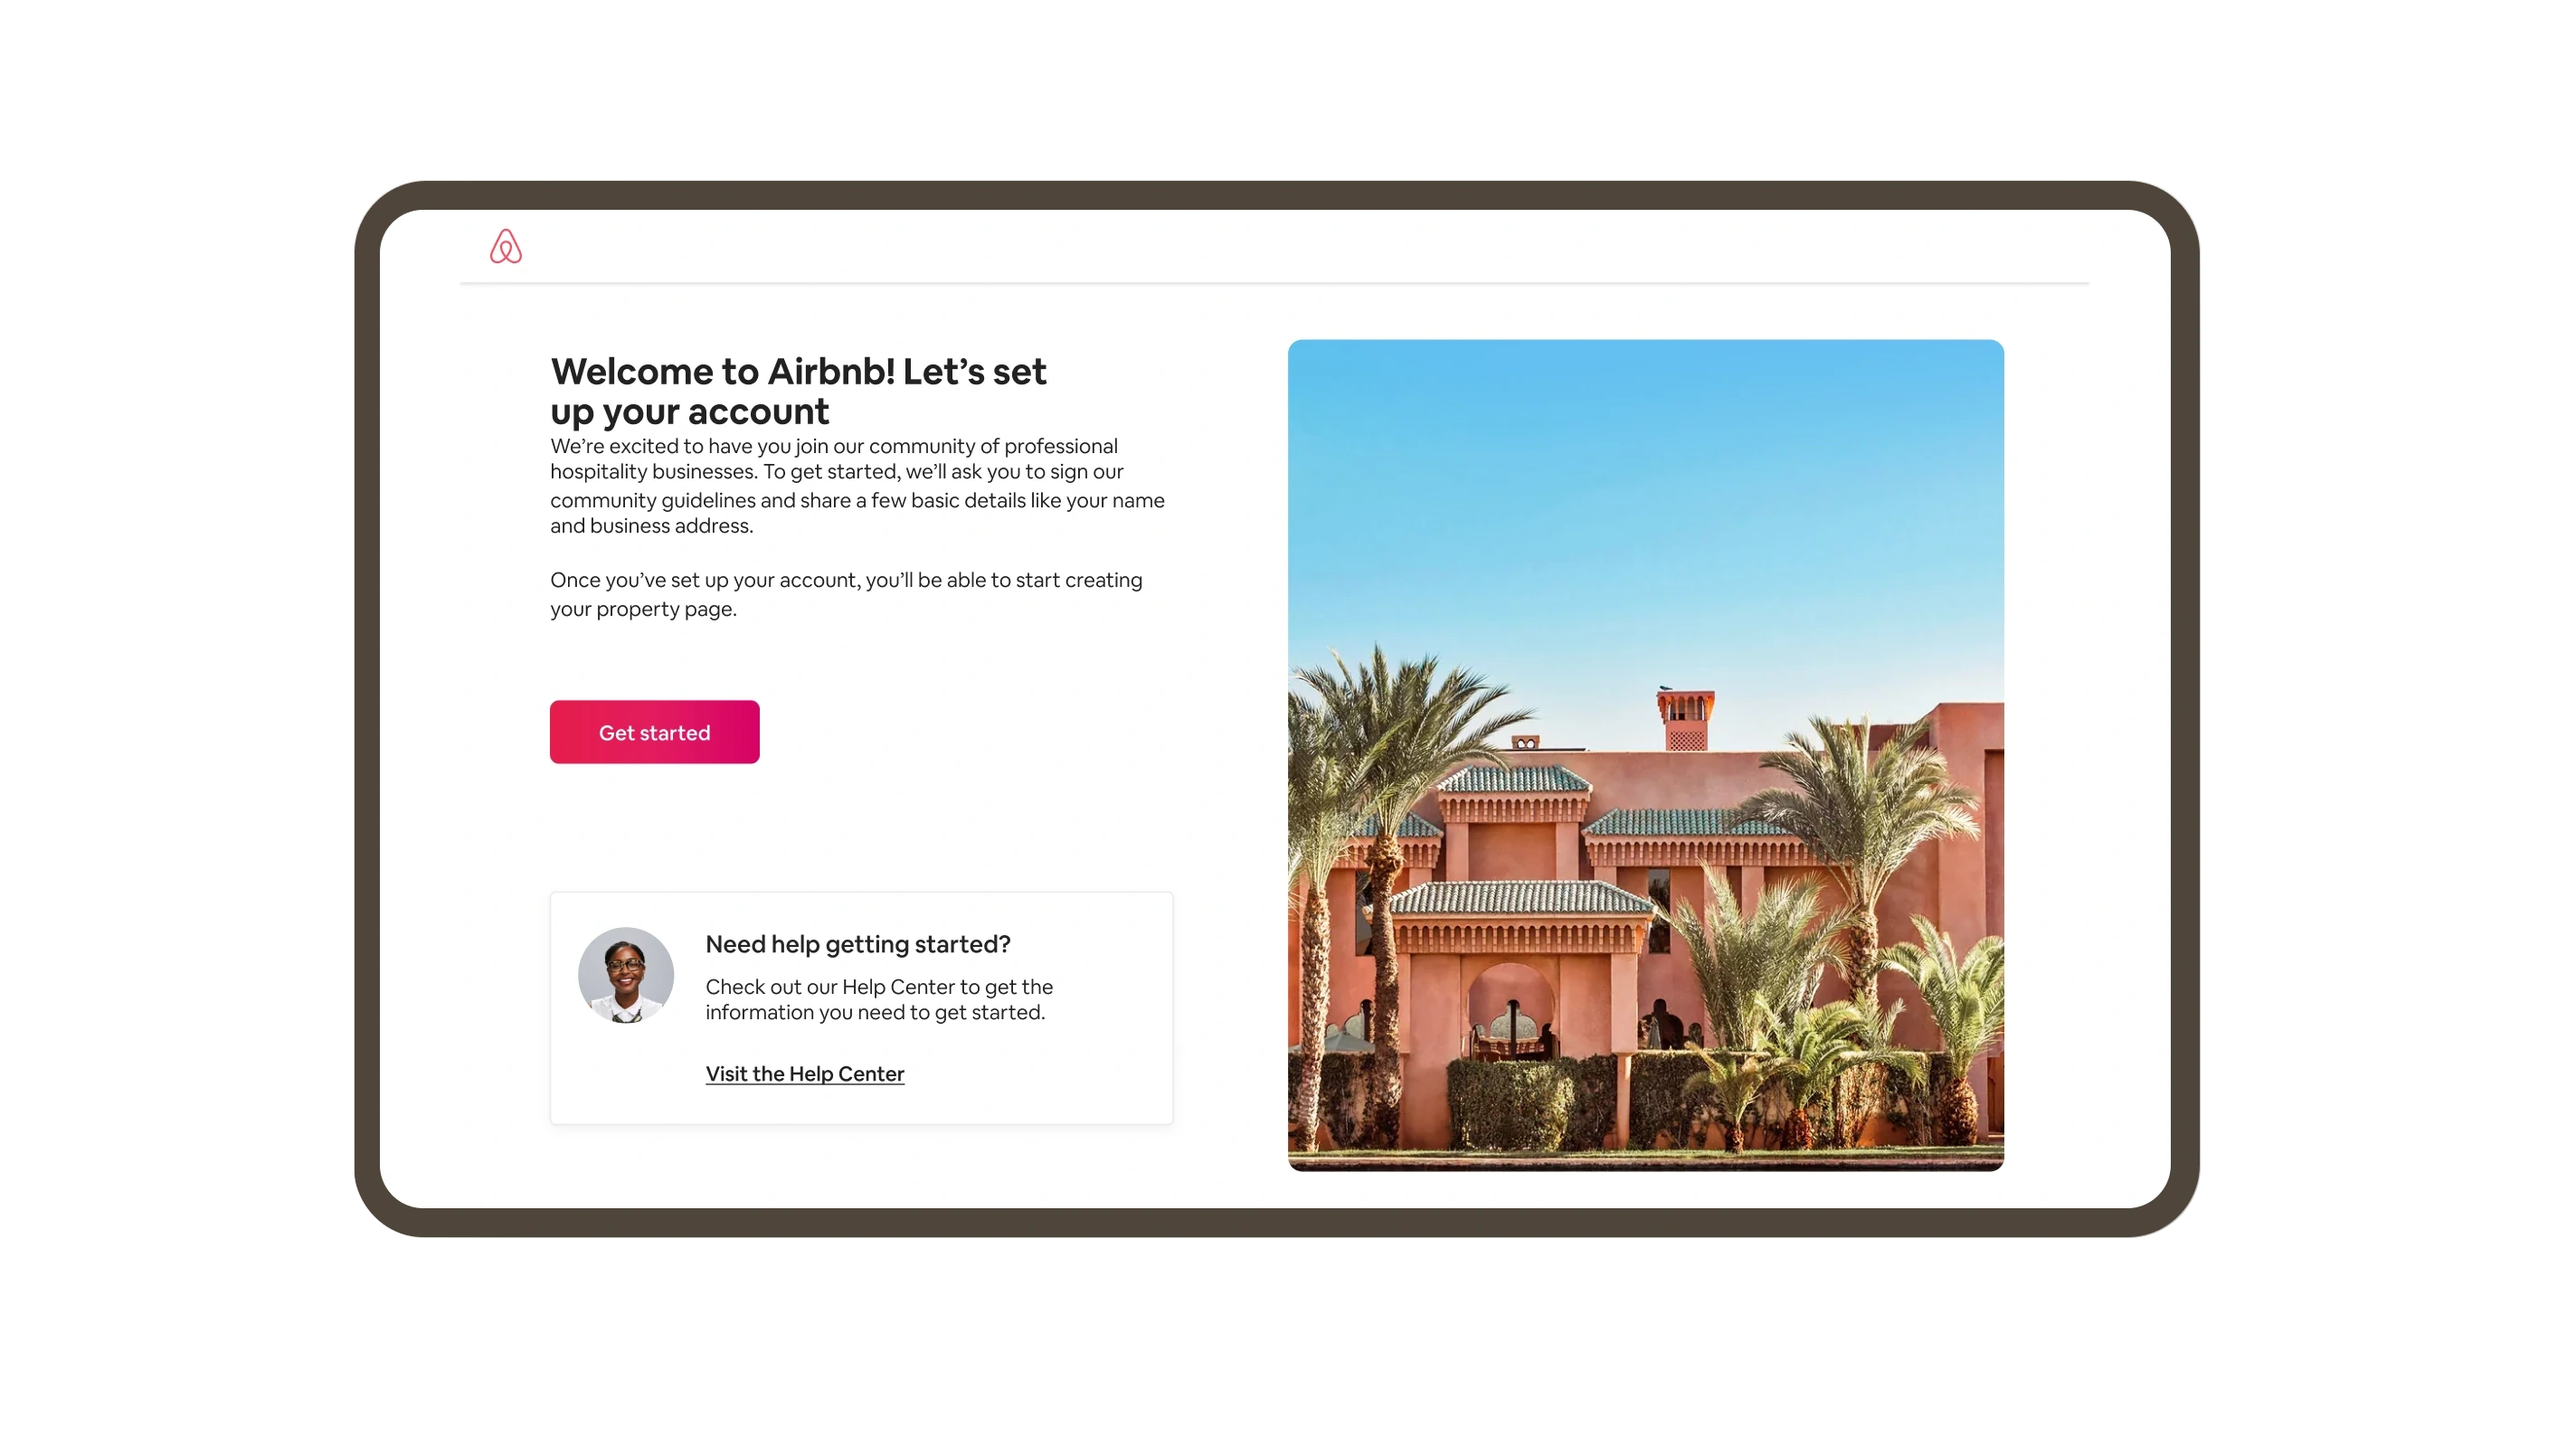
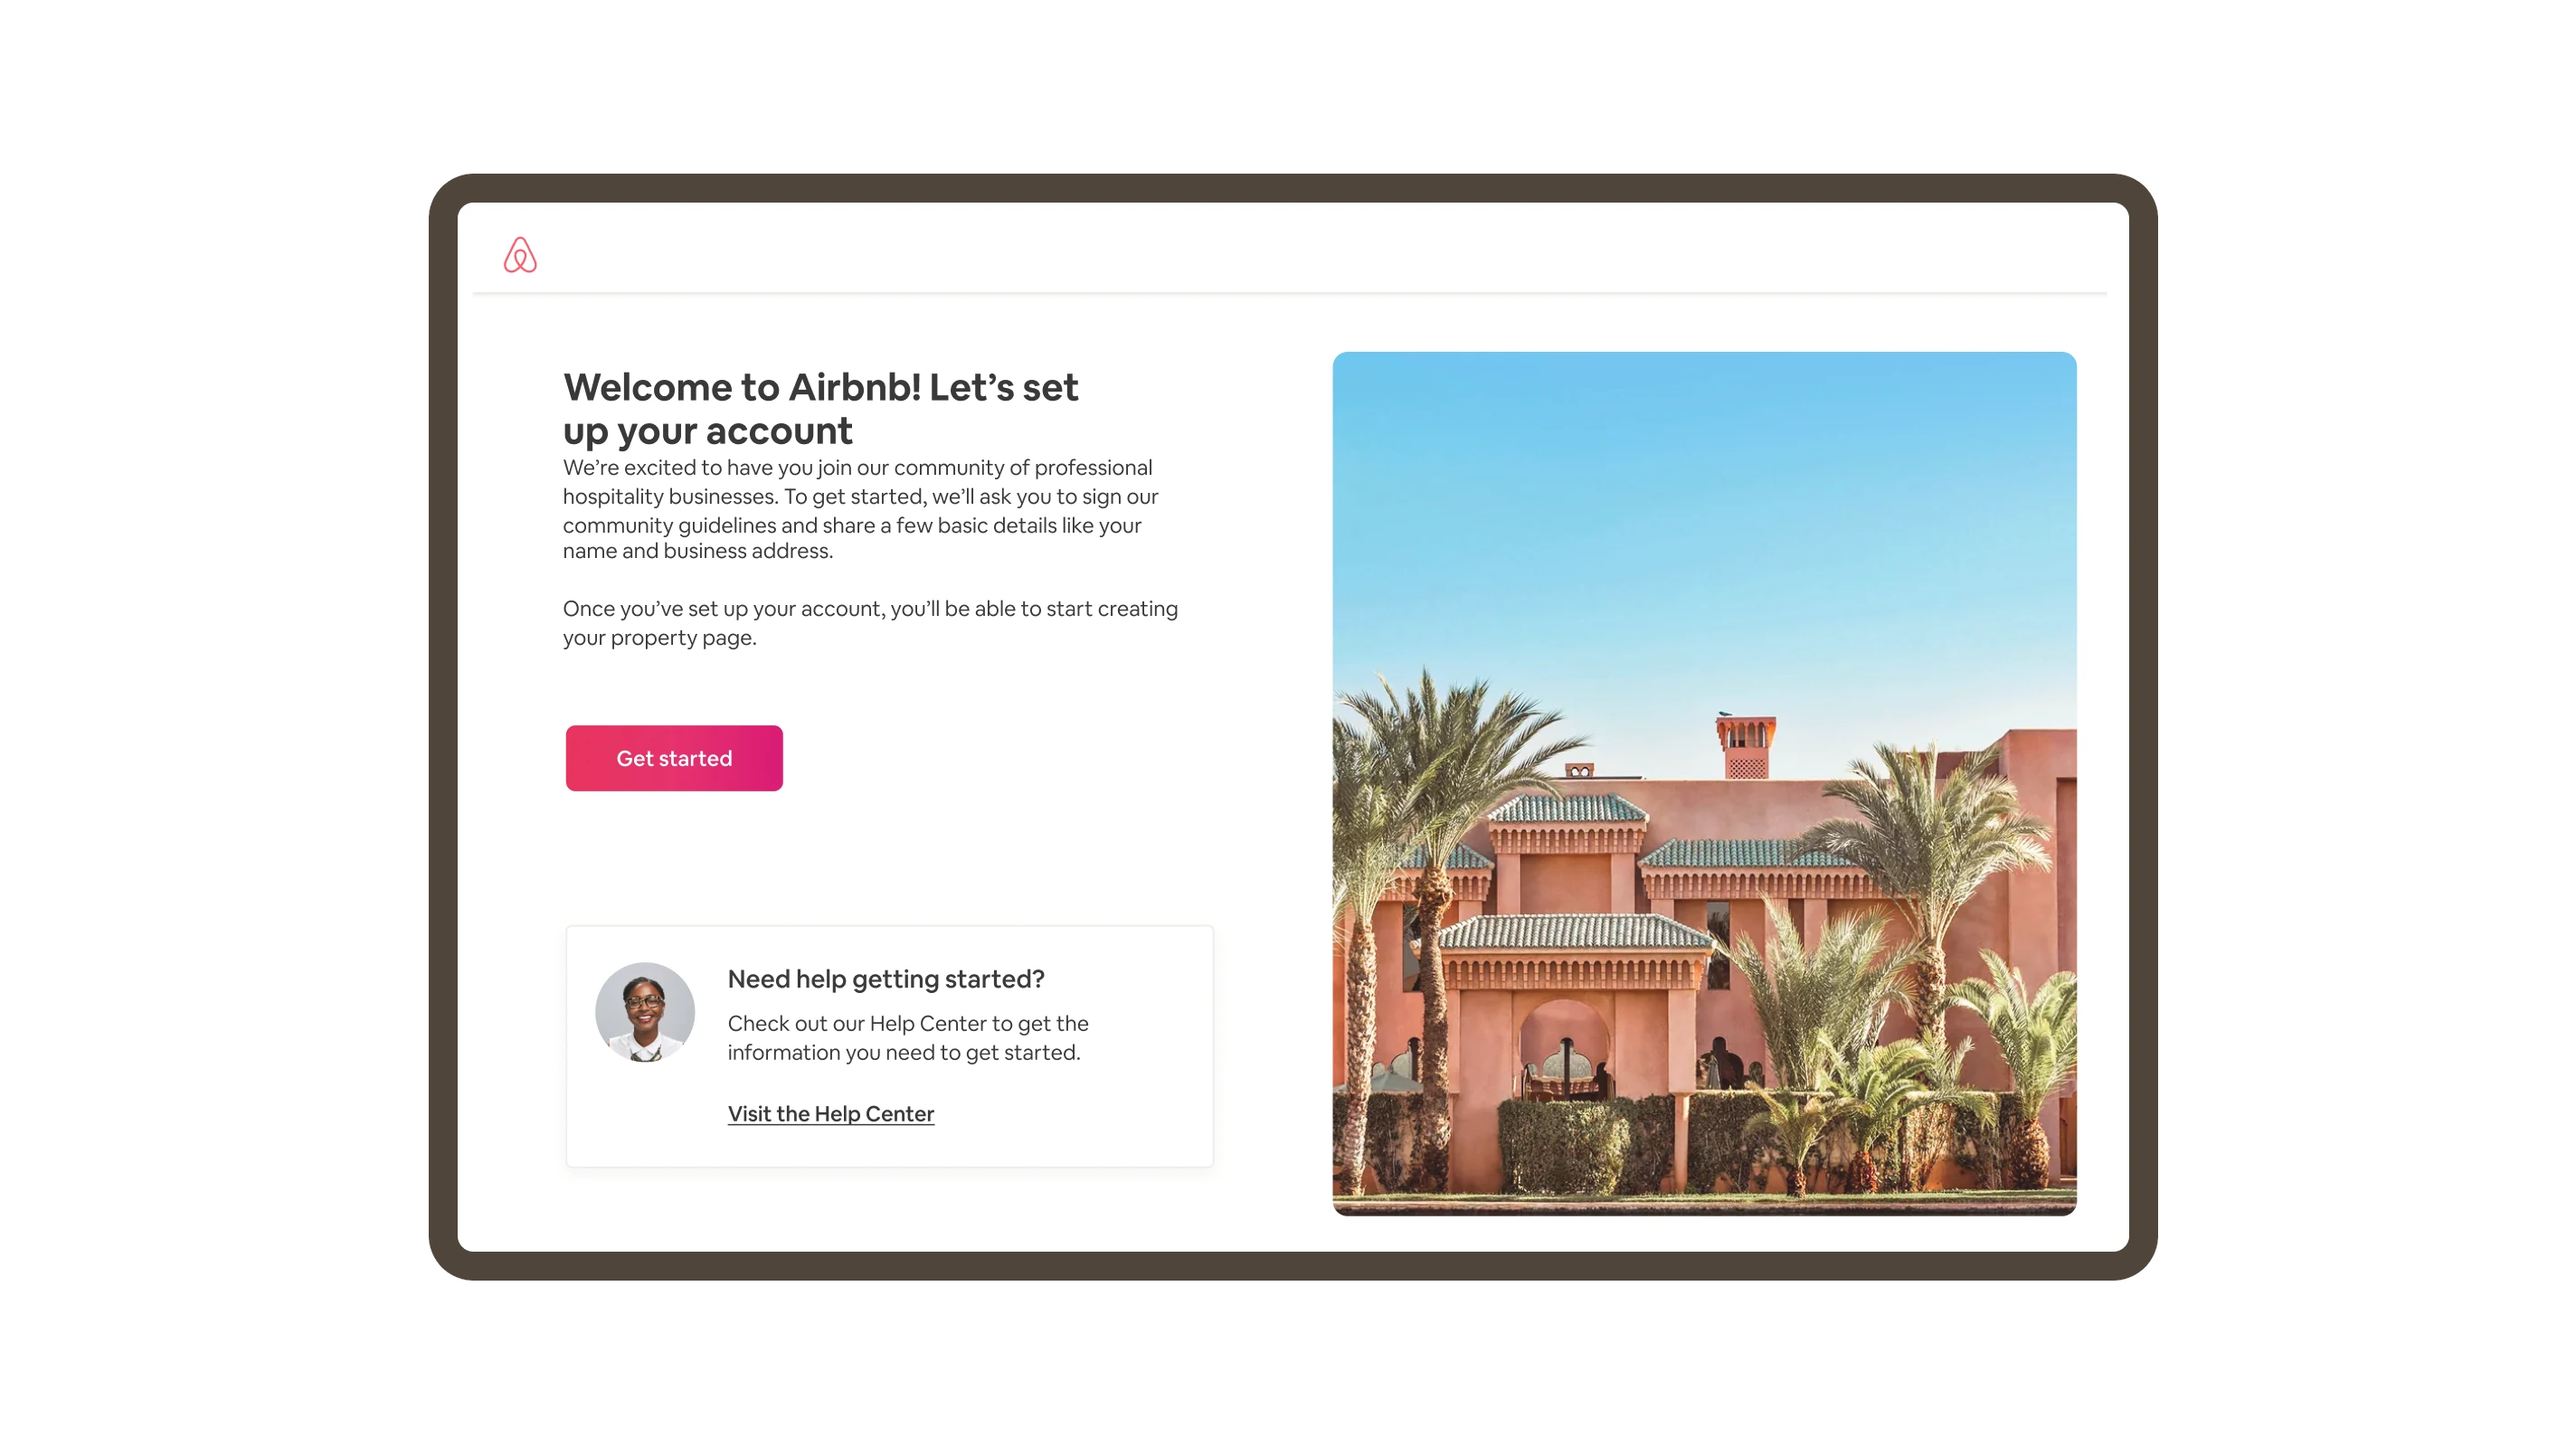
New homepage project artwork, Yahoo quotes, and Learnings numbering
Homepage
- Admin portal, Airbnb and Yahoo cards use the new Figma mockups
  (1028:61611, 1028:64073, 875:55281): one 478x306 framed mockup each,
  placed at the same spot on the 2848x1600 card canvas. The Admin
  portal card replaces its flat placeholder device.

Yahoo Partner Portal
- Pull quotes for Search (Gannett, middle) and Takedowns (DotDash
  Meredith, top), from the Figma case study (302:51432)
- Learnings numbered 11

Changed region(s): [[0.125, 0.0938, 0.875, 0.9062], [0.2188, 0.625, 0.4062, 0.7812]]

diff --git a/src/lib/ypp.ts b/src/lib/ypp.ts
@@ -508,6 +508,14 @@ export const blocks: Block[] = [
         text: "Every search result opens the full Content Item Detail: metadata, performance KPIs, discovery source, and any active issues. Gannett's team said being able to share a direct link to a story's performance data would replace a whole category of back-and-forth with their Yahoo contact.",
       },
     ],
+    pullQuotes: [
+      {
+        quote:
+          "For something like the Oscars, I can pull a link to this story's performance and share it with my team. That makes it a lot easier than just giving them a breakdown.",
+        attribution: "Gannett",
+      },
+    ],
+    pullQuotePosition: "middle",
   },
 
   // 10. Takedowns
@@ -537,6 +545,14 @@ export const blocks: Block[] = [
         text: "Legal takedowns carry data-preservation and proof-of-notification obligations a silent delete button can't satisfy. The research confirmed the need — a different constraint determined the form.",
       },
     ],
+    pullQuotes: [
+      {
+        quote:
+          "I really like what you showed us. Almost like a product developers perspective. That is really critical and I would even recommend other partners do that because the amount of time it takes to assess and pinpoint a problem is time consuming for multiple people in our organization.",
+        attribution: "DotDash Meredith",
+      },
+    ],
+    pullQuotePosition: "top",
   },
 
   // 11. User Management
@@ -582,6 +598,7 @@ export const blocks: Block[] = [
   // "76% satisfied" stat beside it would contradict the text.
   {
     kind: "closing",
+    sectionNumber: "11",
     heading: "Learnings",
     body: [
       "We set publisher satisfaction as the primary success measure and support-ticket volume as the counter-metric. I left the project before the follow-up survey that would have measured either, so I can't point to a number.",

diff --git a/src/lib/home.ts b/src/lib/home.ts
@@ -58,18 +58,22 @@ export const projects: Project[] = [
   },
   {
     // Swapped with Unified main door (now under Additional work), per
-    // direct request. No artwork yet, so the screen is a flat 50% tint of
-    // the device frame's #4f453b over the paper, per direct request — mixed
-    // solid rather than 50% opacity, so the bezel and grid don't show
-    // through it.
+    // direct request. Artwork is Figma 1028:61611, a coral card of the case
+    // study's media rather than a device mockup, placed on the same
+    // 2848x1600 canvas as the other cutouts at its spot in the 713x402
+    // mockup frame.
     company: "Headspace",
     title: "Admin portal research & proposal",
     description:
       "Headspace's B2B Admin Portal had become antiquated. When a merger with Ginger introduced a second internal platform, the gap between what Admins needed and what existed became impossible to ignore.",
     href: "/work/headspace-admin-portal",
-    image: null,
+    image: {
+      src: "/headspace/admin-portal/thumbnail-cutout.webp",
+      alt: "Collage from the Headspace Admin Portal project on a coral card: the journey map, Admin survey stats, Kano results by company size and the wireframed portal home",
+      width: 2848,
+      height: 1600,
+    },
     imageLabel: "",
-    screenColor: "color-mix(in srgb, #4f453b 50%, var(--bg))",
     skills: [
       "B2B platform",
       "Design systems",
